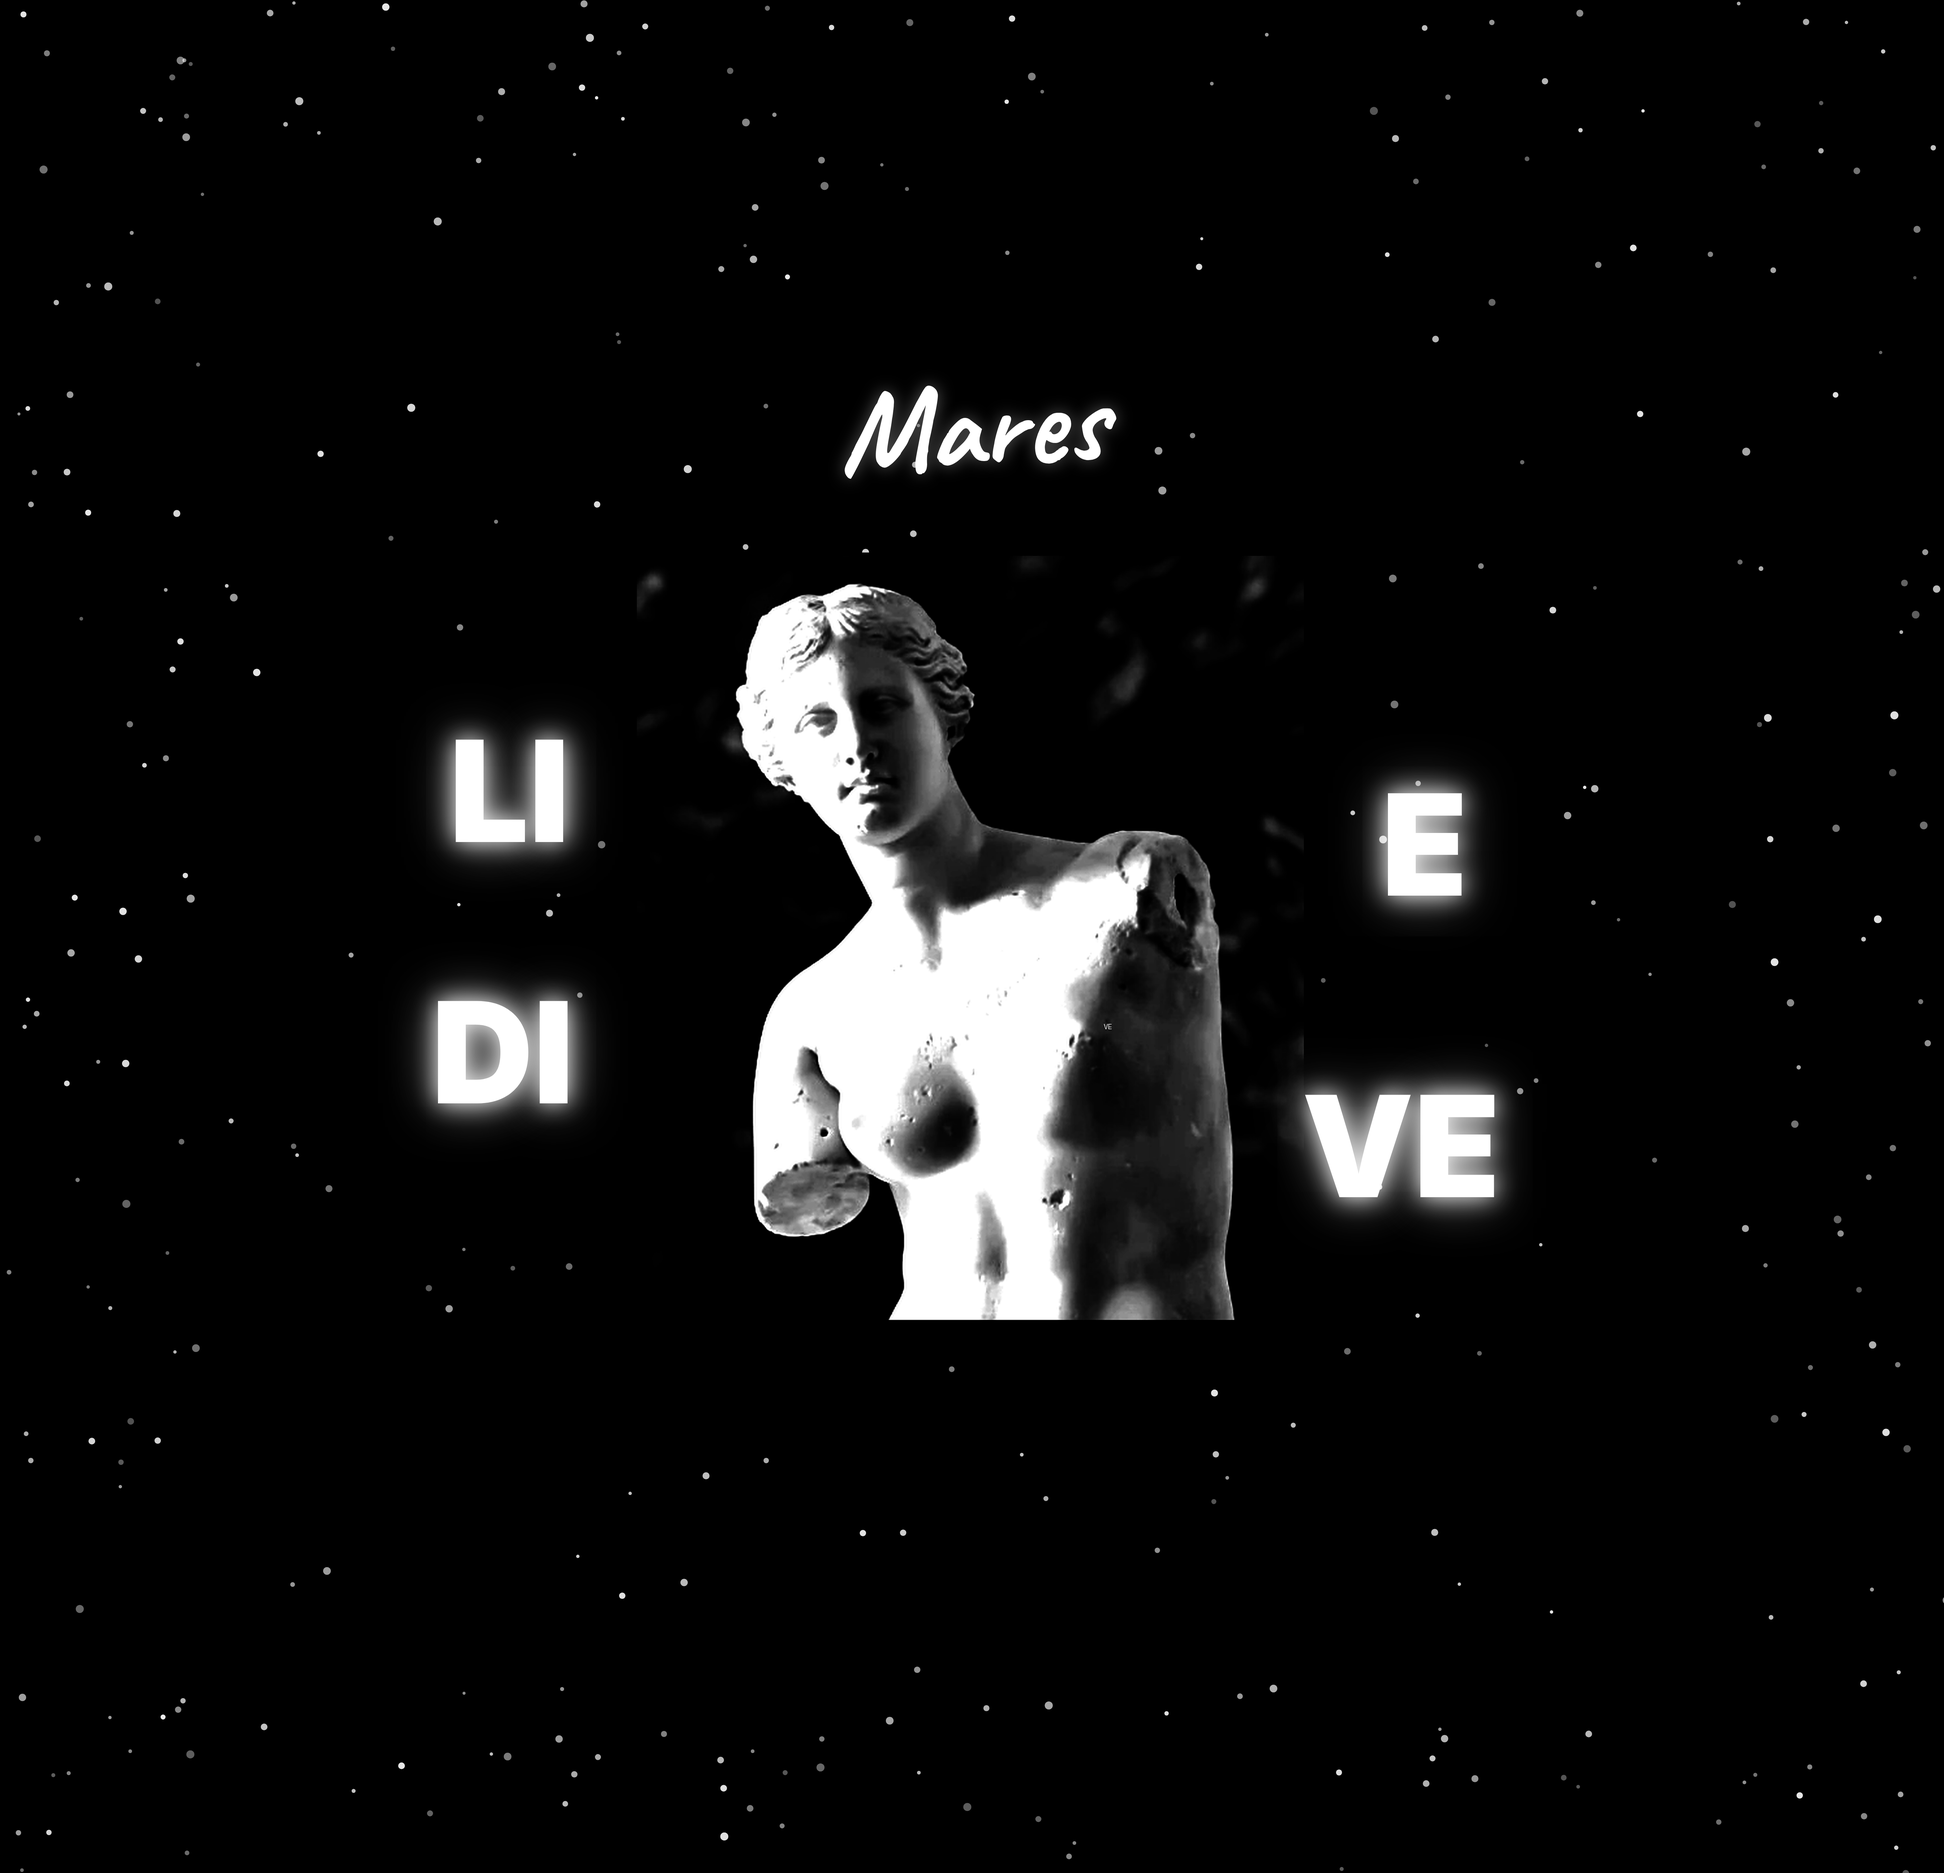
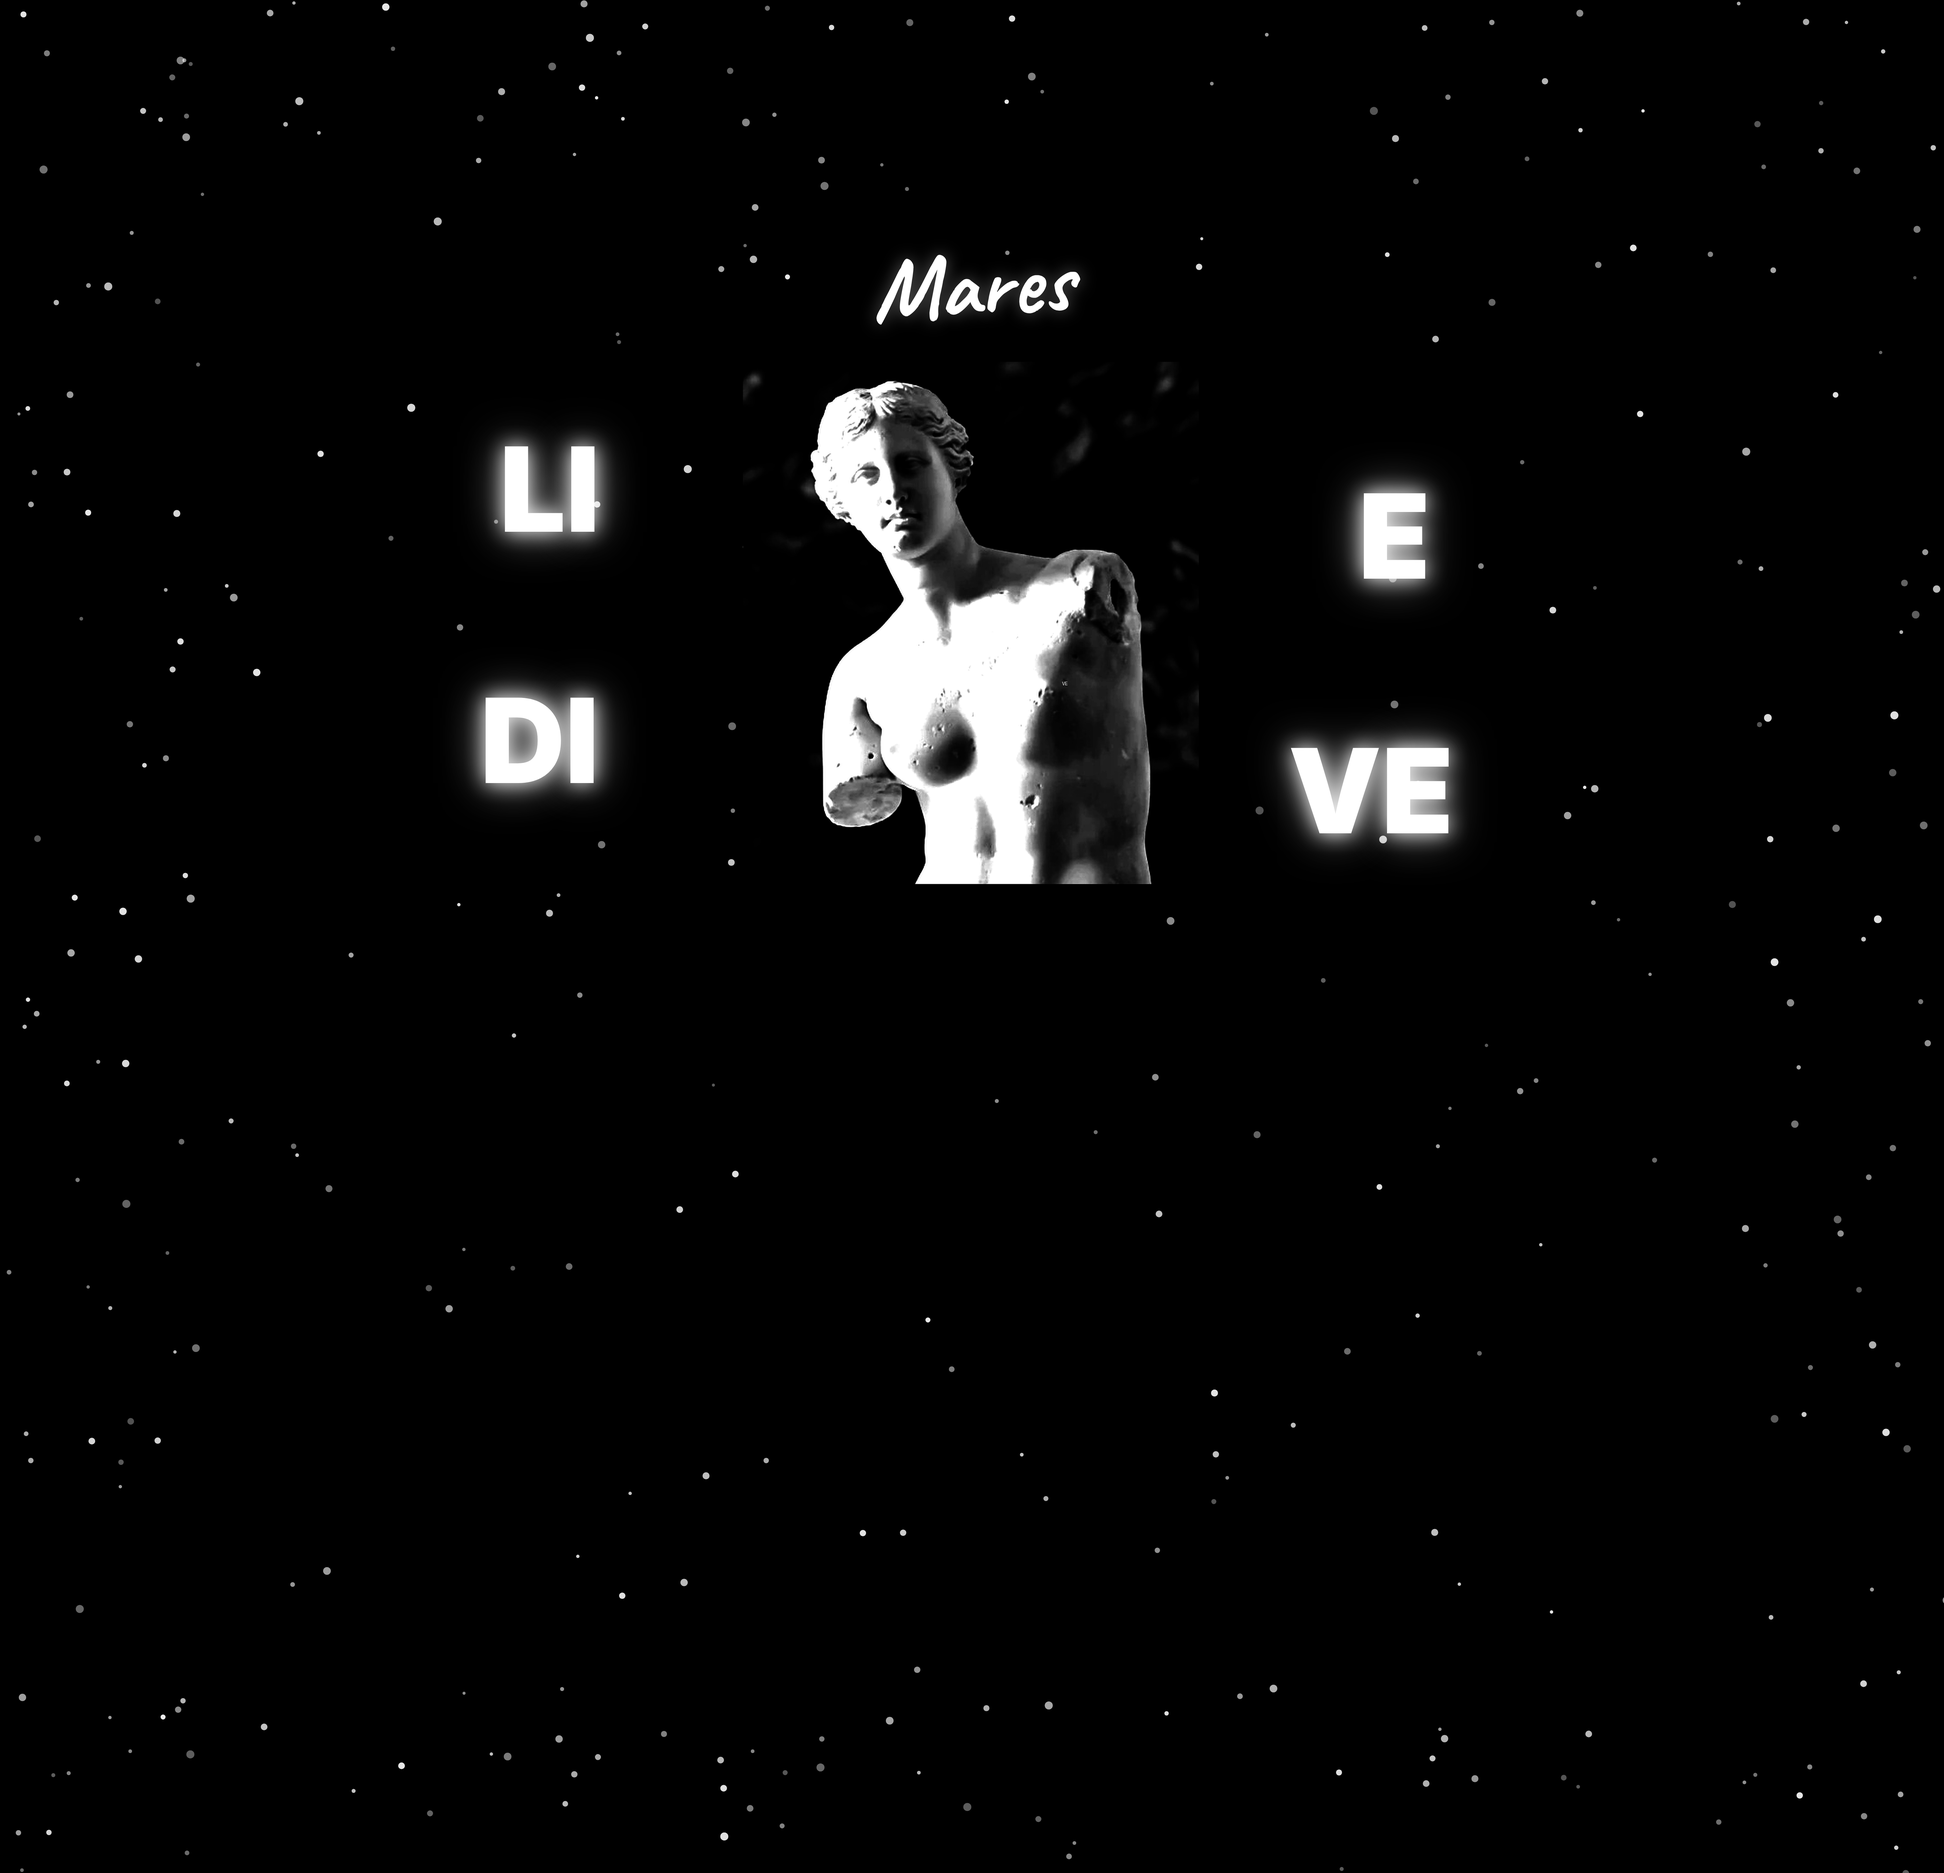
Keep the front artwork above the kangaroo pocket
The pocket covers the front panel below ~48% of canvas height, so the
statue, eye strip and heart were half hidden once assembled — only the
statue's head and shoulders showed. Signature, artwork and letters now
sit entirely in the visible band between the safe-area top and the
pocket line, verified against all three designs.

Claude-Session: https://claude.ai/code/session_01CMmd7hHney9Uuvu8uMddpz

diff --git a/designs/print-ready/PRINTFUL_AOP_HOODIE.md b/designs/print-ready/PRINTFUL_AOP_HOODIE.md
@@ -38,6 +38,18 @@ the hood, one mirrored on the right. The inside lining stays stars.
 The label panel is a small crescent, so it carries just the **Mares**
 signature, centred where the woven label sits.
 
+## The kangaroo pocket eats the lower front
+
+The pocket is sewn over the front panel from about **48% of the canvas
+height** downwards, so anything below that line is hidden once the hoodie
+is assembled. The first version put the statue across that line and only
+its head and shoulders stayed visible.
+
+Every front now keeps the signature, the artwork and the letters inside
+the band between the safe-area top (11.5%) and the pocket line (48%), so
+the whole motif reads on the finished garment. Below the pocket line the
+file is stars only — that area still needs printing, it just isn't seen.
+
 ## Why the fronts have no bottom text
 
 The bottom ~20% of the front canvas is the hem band, folded under at the
